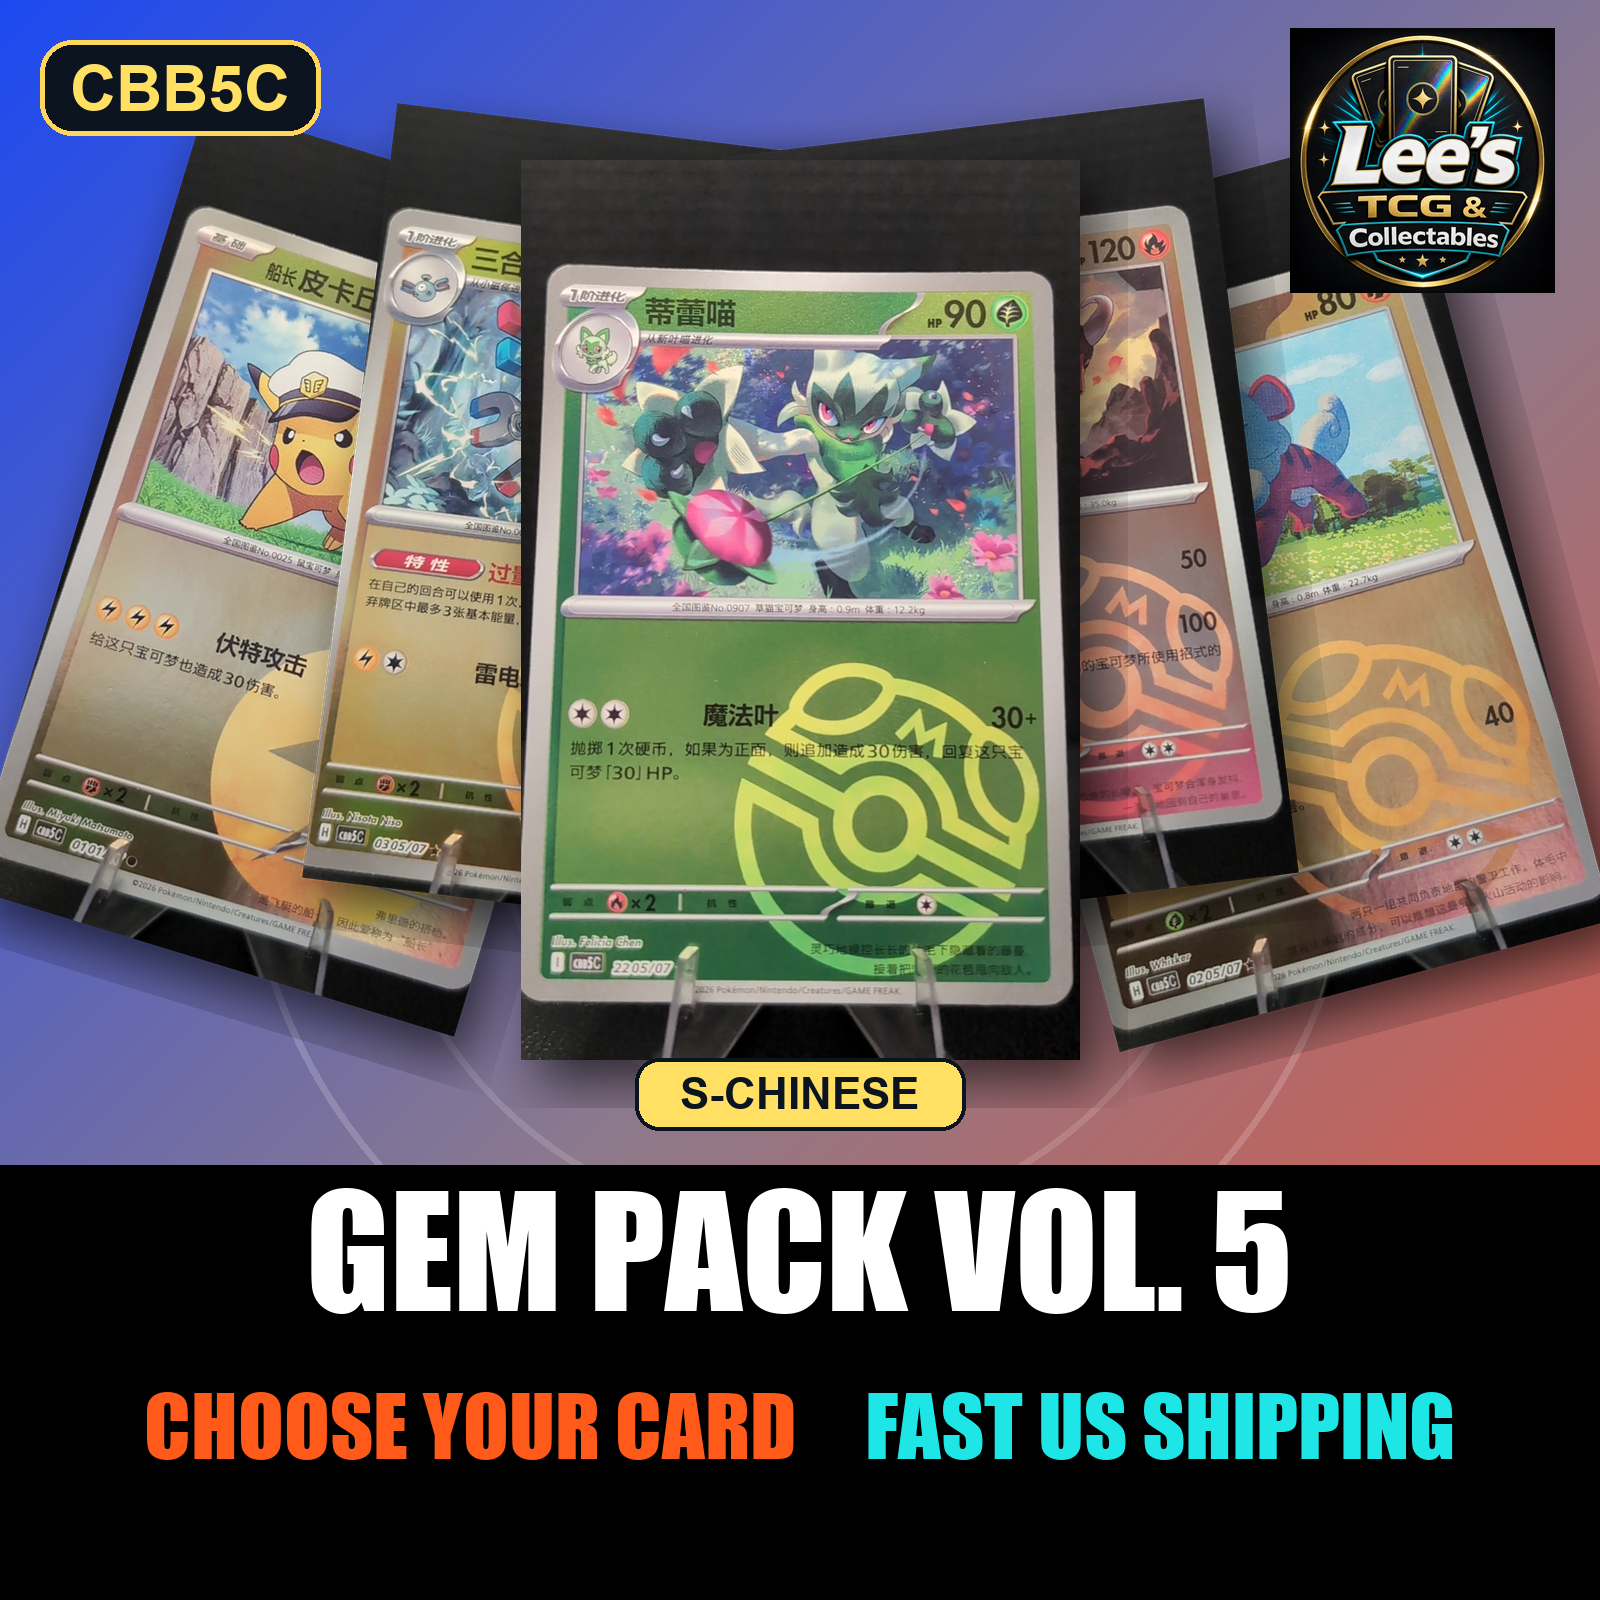
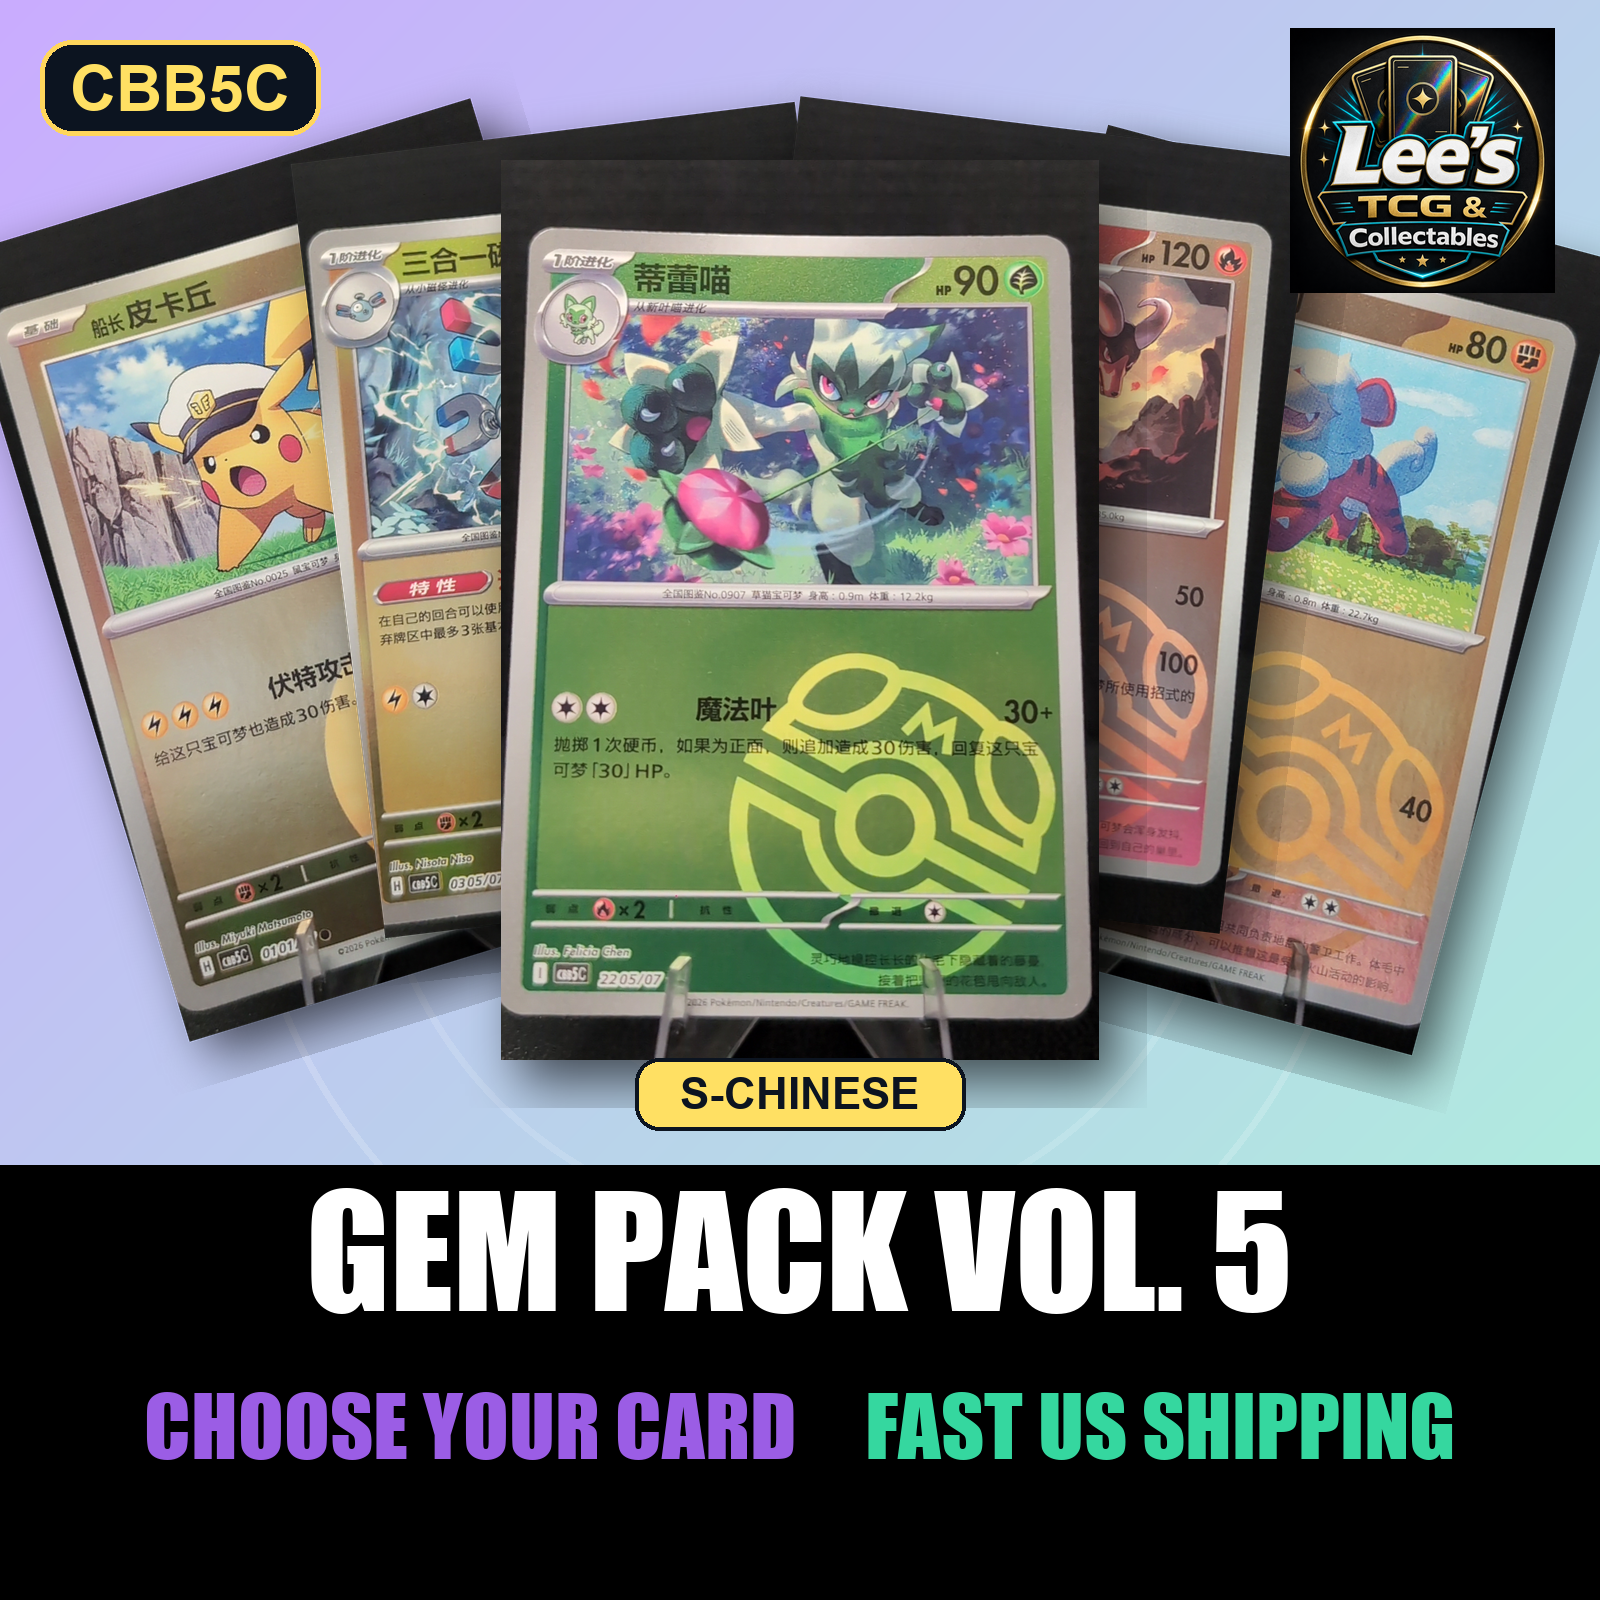
Revise Gem Pack listing thumbnail

diff --git a/scripts/build_ebay_listing_thumbnail.py b/scripts/build_ebay_listing_thumbnail.py
@@ -1,6 +1,5 @@
 from pathlib import Path
 import argparse
-import math
 
 from PIL import Image, ImageDraw, ImageFilter, ImageFont, ImageOps
 
@@ -41,9 +40,11 @@ def gradient_background(size: int) -> Image.Image:
     for y in range(size):
         for x in range(size):
             t = (x + y) / (2 * size)
-            r = int(29 + 205 * t)
-            g = int(34 + 88 * (1 - abs(t - 0.55)))
-            b = int(56 + 185 * (1 - t))
+            purple = (202, 172, 255)
+            mint = (172, 245, 218)
+            r = int(purple[0] + (mint[0] - purple[0]) * t)
+            g = int(purple[1] + (mint[1] - purple[1]) * t)
+            b = int(purple[2] + (mint[2] - purple[2]) * t)
             pixels[x, y] = (r, g, b)
 
     overlay = Image.new("RGBA", (size, size), (0, 0, 0, 0))
@@ -57,10 +58,10 @@ def gradient_background(size: int) -> Image.Image:
     return Image.alpha_composite(image.convert("RGBA"), overlay)
 
 
-def crop_card(path: Path) -> Image.Image:
+def crop_card(path: Path, bottom_trim: int = 0) -> Image.Image:
     image = ImageOps.exif_transpose(Image.open(path)).convert("RGBA")
     # Crop the physical card from the consistent photo station framing.
-    card = image.crop((1030, 1450, 2050, 3090))
+    card = image.crop((1030, 1525, 2050, 3090 - bottom_trim))
     return card
 
 
@@ -129,15 +130,23 @@ def main() -> None:
         "0805-07-Houndoom.jpg",
         "2205-07-Floragato.jpg",
     ]
-    cards = [crop_card(photo_dir / filename) for filename in selected_cards]
+    bottom_trims = {
+        "0101-07-Captain Pikachu.jpg": 30,
+        "0805-07-Houndoom.jpg": 30,
+        "2205-07-Floragato.jpg": 30,
+    }
+    cards = [
+        crop_card(photo_dir / filename, bottom_trim=bottom_trims.get(filename, 0))
+        for filename in selected_cards
+    ]
 
     size = 1600
     canvas = gradient_background(size)
 
-    paste_rotated_card(canvas, cards[0], (330, 570), 820, -17)
-    paste_rotated_card(canvas, cards[1], (1260, 590), 820, 15)
-    paste_rotated_card(canvas, cards[2], (590, 520), 780, -7)
-    paste_rotated_card(canvas, cards[3], (1010, 515), 780, 7)
+    paste_rotated_card(canvas, cards[0], (330, 570), 820, 17)
+    paste_rotated_card(canvas, cards[1], (1260, 590), 820, -15)
+    paste_rotated_card(canvas, cards[2], (590, 520), 780, 7)
+    paste_rotated_card(canvas, cards[3], (1010, 515), 780, -7)
     paste_rotated_card(canvas, cards[4], (800, 610), 900, 0)
 
     draw = ImageDraw.Draw(canvas)
@@ -155,8 +164,8 @@ def main() -> None:
     # Bottom readable listing text.
     draw.rounded_rectangle((0, 1165, 1600, 1600), radius=0, fill=(0, 0, 0, 120))
     text_with_stroke(draw, (800, 1250), "GEM PACK VOL. 5", impact, "white", stroke_width=10)
-    text_with_stroke(draw, (470, 1425), "CHOOSE YOUR CARD", impact_small, "#ff5a19", stroke_width=7)
-    text_with_stroke(draw, (1160, 1425), "FAST US SHIPPING", impact_small, "#1ee6e6", stroke_width=7)
+    text_with_stroke(draw, (470, 1425), "CHOOSE YOUR CARD", impact_small, "#9b5de5", stroke_width=7)
+    text_with_stroke(draw, (1160, 1425), "FAST US SHIPPING", impact_small, "#35d79f", stroke_width=7)
 
     draw.rounded_rectangle((635, 1058, 965, 1130), radius=24, fill=(255, 224, 99, 235), outline=(12, 20, 32, 255), width=4)
     draw.text((800, 1094), "S-CHINESE", font=load_font("arialbd.ttf", 44), fill=(12, 20, 32), anchor="mm")
